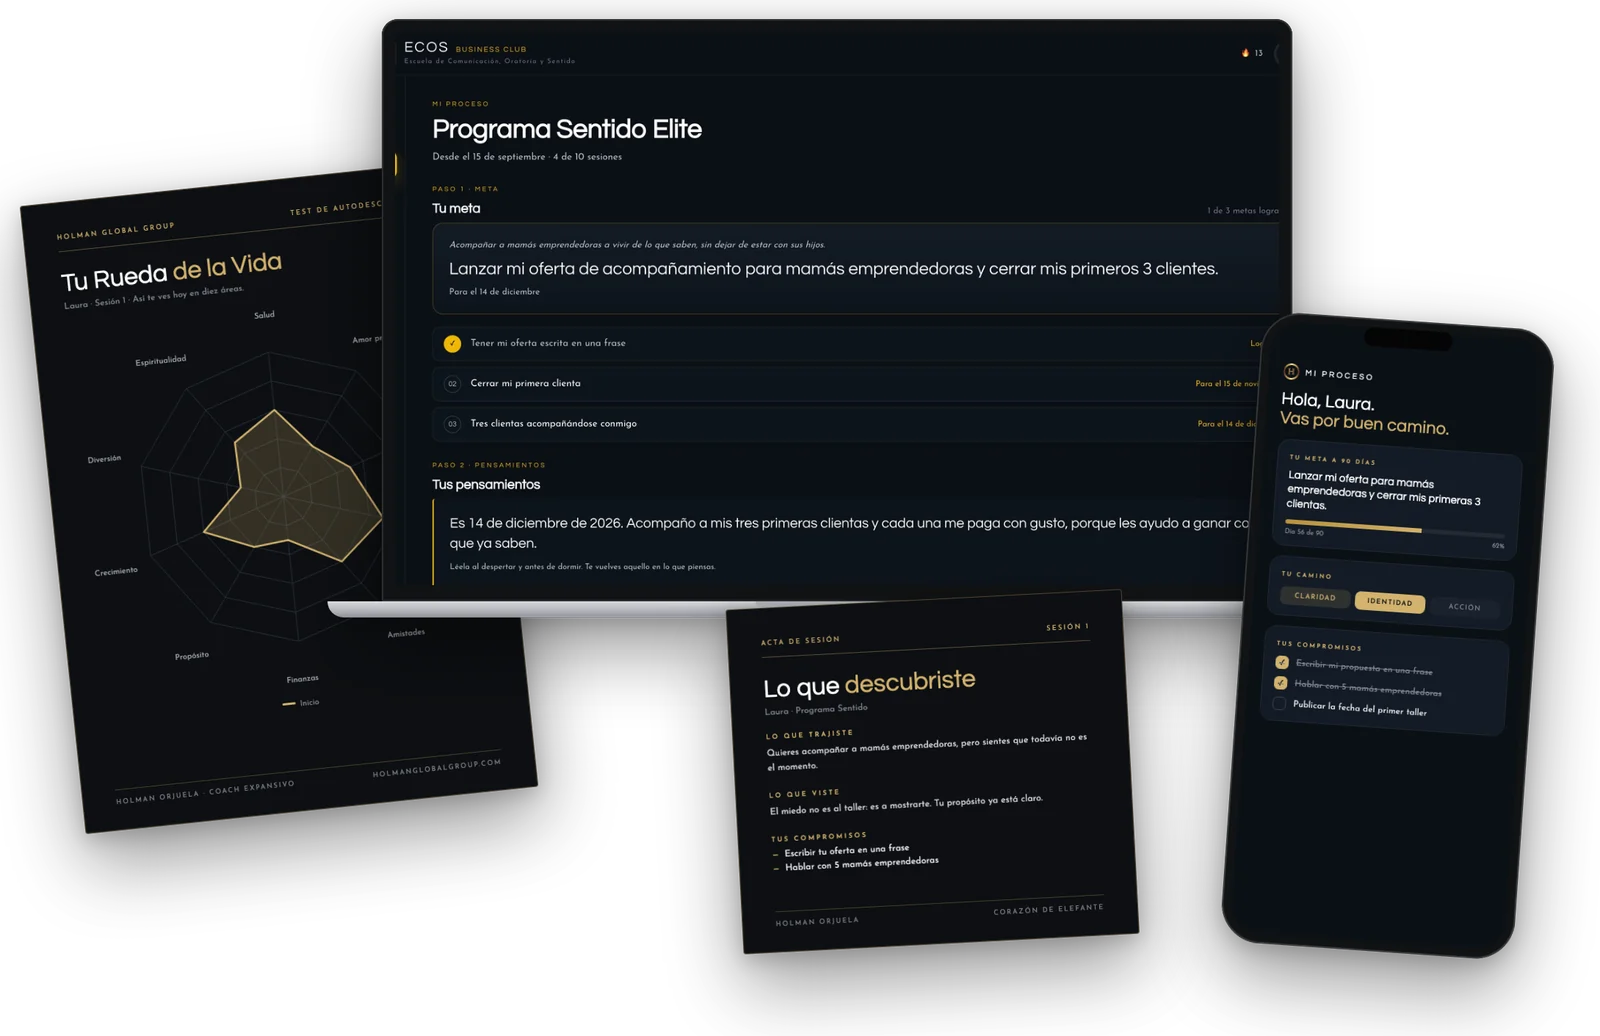
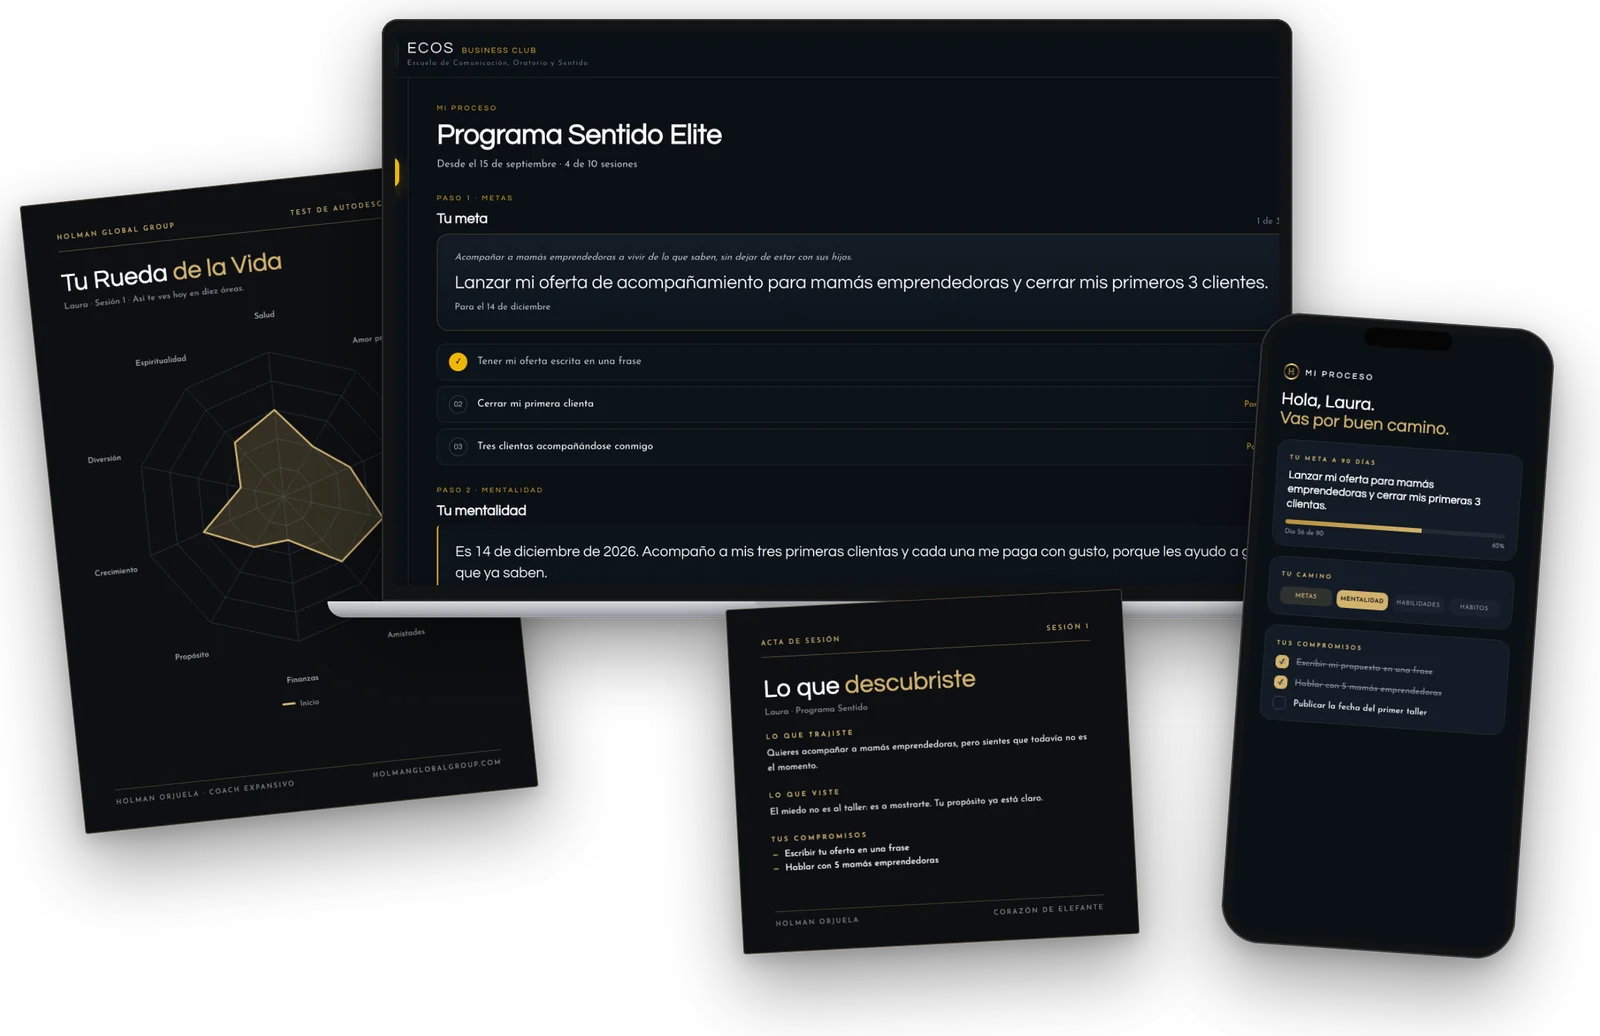
fix(tienda): la imagen de Sentido muestra la Fórmula M2H2

diff --git a/scripts/mockups/sentido.html b/scripts/mockups/sentido.html
@@ -74,7 +74,7 @@
   .barra i { display: block; height: 100%; width: var(--w); background: linear-gradient(90deg, #b8913e, var(--champan)); }
   .barra-t { display: flex; justify-content: space-between; font-size: 9px; color: var(--gris); margin-top: 6px; }
   .etapas { display: flex; gap: 6px; margin-top: 10px; }
-  .etapas span { flex: 1; text-align: center; font-size: 9px; letter-spacing: .14em; text-transform: uppercase; padding: 8px 0; border-radius: 8px; background: #1a222d; color: var(--gris); }
+  .etapas span { flex: 1; text-align: center; font-size: 8px; letter-spacing: .06em; text-transform: uppercase; padding: 8px 0; border-radius: 8px; background: #1a222d; color: var(--gris); }
   .etapas span.ok { background: rgba(210,178,110,.15); color: var(--champan); }
   .etapas span.ya { background: var(--champan); color: var(--negro); font-weight: 600; }
   .comp { list-style: none; display: grid; gap: 10px; margin-top: 10px; font-size: 12px; }
@@ -127,12 +127,12 @@
     </div>
     <aside class="zoom-lado">
       <span class="kick">Sesión 4 de 10</span>
-      <h4>Tu meta, en cuatro pasos</h4>
+      <h4>Tu Fórmula M2H2</h4>
       <ol>
-        <li class="on"><b>01</b>Meta a 90 días</li>
-        <li><b>02</b>Pensamientos que te frenan</li>
+        <li class="on"><b>01</b>Metas a 90 días</li>
+        <li><b>02</b>Mentalidad que eliges</li>
         <li><b>03</b>Habilidades que pide</li>
-        <li><b>04</b>Tu acción de la semana</li>
+        <li><b>04</b>Hábitos de la semana</li>
       </ol>
     </aside>
   </div>
@@ -150,7 +150,7 @@
     </div>
     <div class="tarj">
       <span class="kick">Tu camino</span>
-      <div class="etapas"><span class="ok">Claridad</span><span class="ya">Identidad</span><span>Acción</span></div>
+      <div class="etapas"><span class="ok">Metas</span><span class="ya">Mentalidad</span><span>Habilidades</span><span>Hábitos</span></div>
     </div>
     <div class="tarj">
       <span class="kick">Tus compromisos</span>
@@ -167,8 +167,8 @@
   <div class="mp">
     <span class="marca"><img src="../../public/marca/logo-h-claro.png" alt="">Mi proceso</span>
     <div class="tarj">
-      <span class="kick">Los 4 pasos</span>
-      <div class="pasos4"><div><b>01</b>Meta</div><div><b>02</b>Pensamientos</div><div><b>03</b>Habilidades</div><div><b>04</b>Acción</div></div>
+      <span class="kick">Fórmula M2H2</span>
+      <div class="pasos4"><div><b>01</b>Metas</div><div><b>02</b>Mentalidad</div><div><b>03</b>Habilidades</div><div><b>04</b>Hábitos</div></div>
     </div>
     <div class="tarj">
       <span class="kick">Creencia que sueltas</span>
@@ -179,9 +179,9 @@
     <div class="tarj">
       <span class="kick">Sesiones</span>
       <ul class="comp">
-        <li class="ok"><i>✓</i>Sesión 1 · Claridad · Acta PDF</li>
+        <li class="ok"><i>✓</i>Sesión 1 · Metas · Acta PDF</li>
         <li class="ok"><i>✓</i>Sesión 2 · Tu historia · Acta PDF</li>
-        <li class="ok"><i>✓</i>Sesión 3 · Creencias · Acta PDF</li>
+        <li class="ok"><i>✓</i>Sesión 3 · Mentalidad · Acta PDF</li>
         <li><i></i>Sesión 4 · jueves 7:00 p. m.</li>
       </ul>
     </div>
